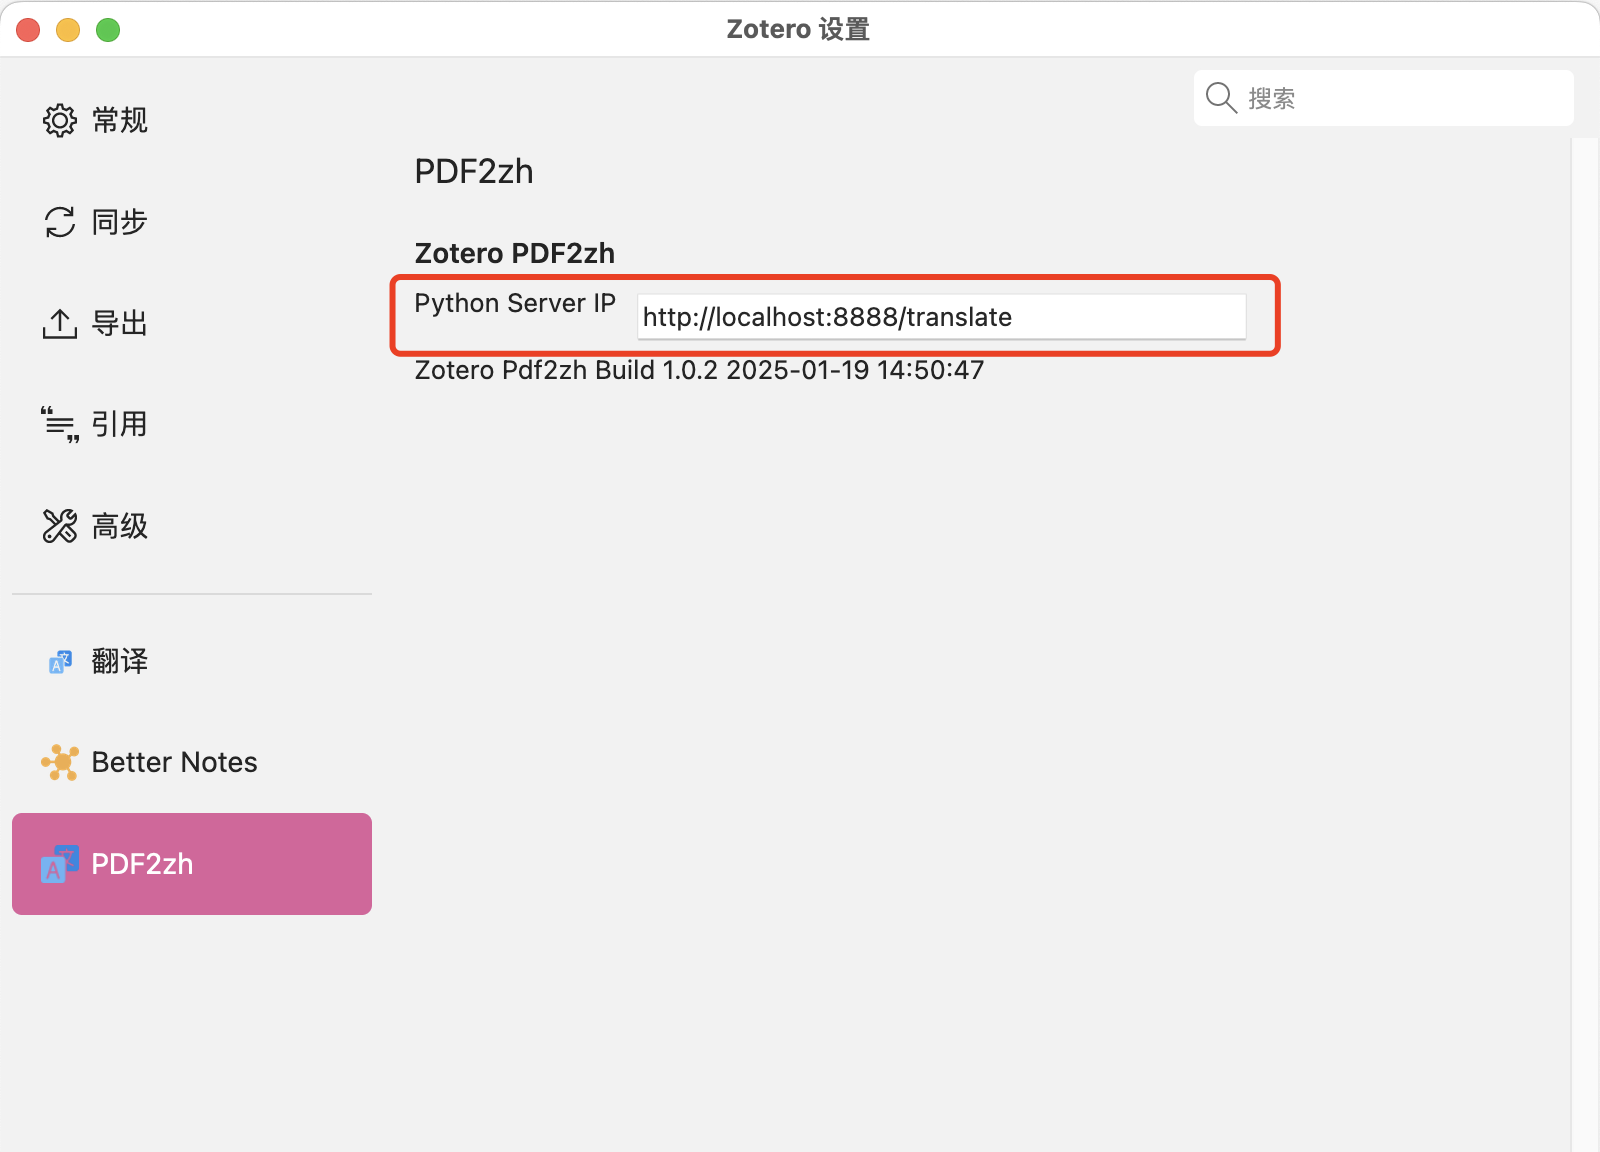
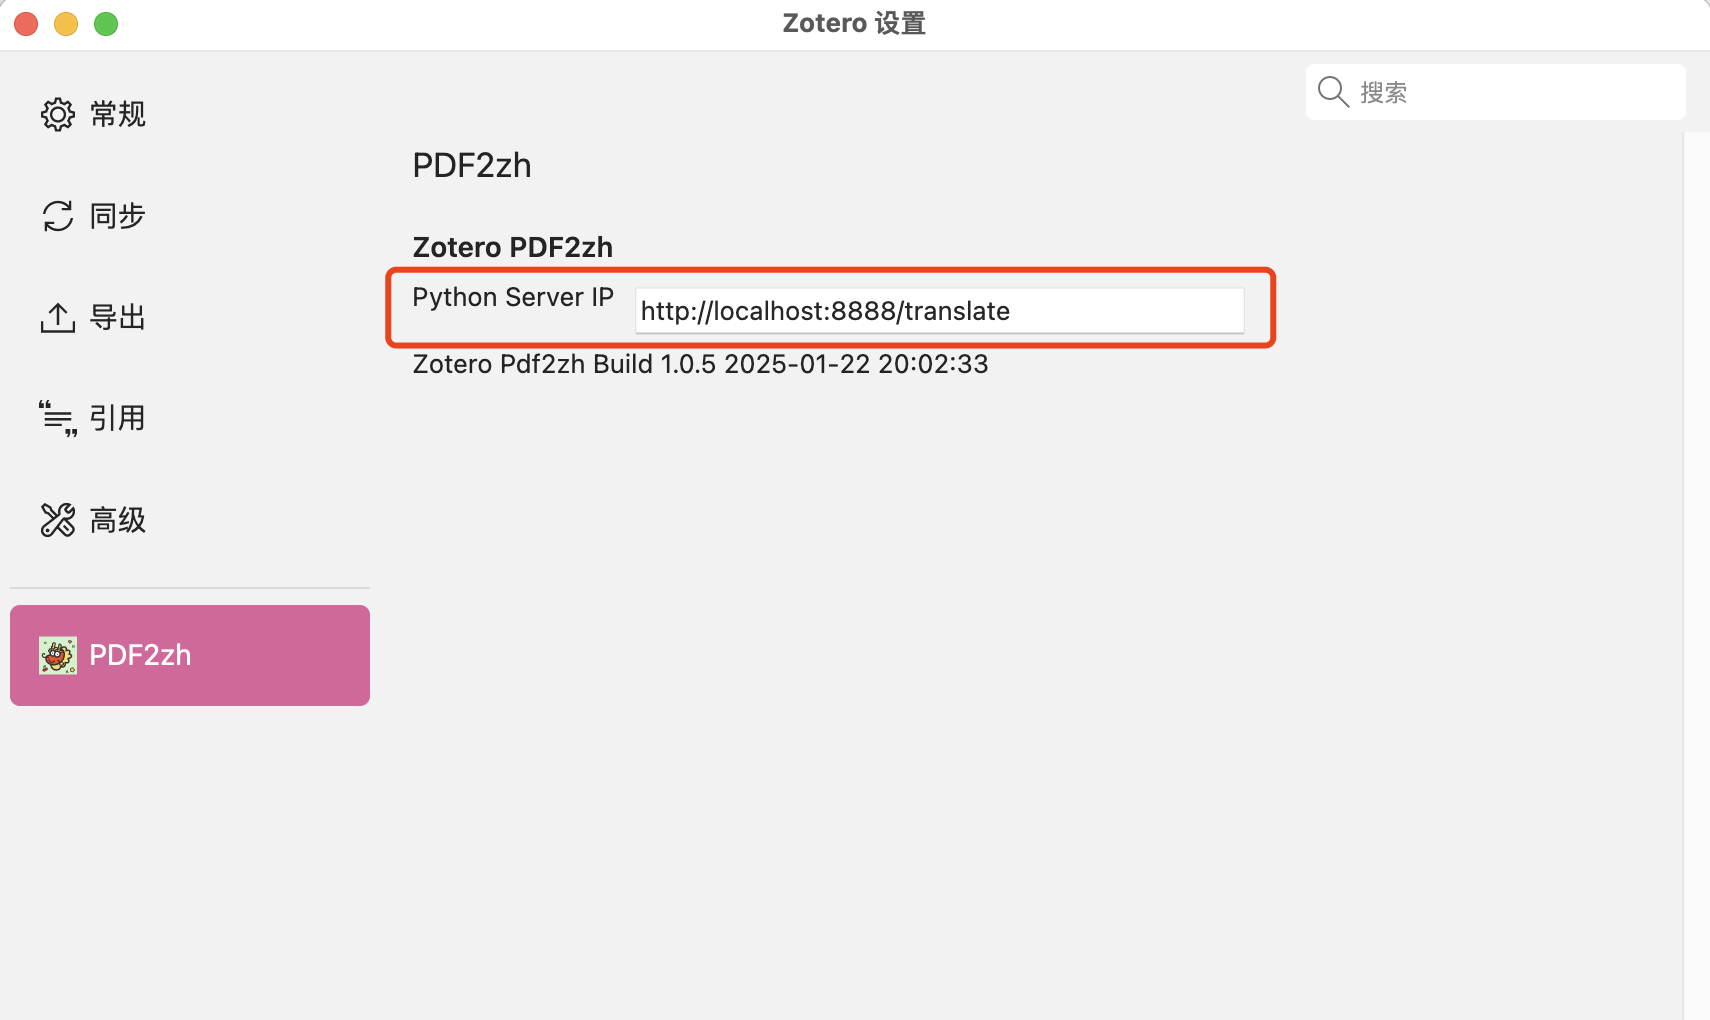
update

diff --git a/src/modules/examples.ts b/src/modules/examples.ts
@@ -78,7 +78,7 @@ export class BasicExampleFactory {
       pluginID: addon.data.config.addonID,
       src: rootURI + "content/preferences.xhtml",
       label: getString("prefs-title"),
-      image: `chrome://${addon.data.config.addonRef}/content/icons/favicon.png`,
+      image: `chrome://${addon.data.config.addonRef}/content/icons/favicon.svg`,
     });
   }
 }
@@ -88,7 +88,7 @@ export class KeyExampleFactory {}
 export class UIExampleFactory {
   @example
   static registerRightClickMenuItem() {
-    const menuIcon = `chrome://${addon.data.config.addonRef}/content/icons/favicon@0.5x.png`;
+    const menuIcon = `chrome://${addon.data.config.addonRef}/content/icons/favicon@0.5x.svg`;
     // 添加自定义菜单项
     ztoolkit.Menu.register("item", {
       tag: "menuitem",
@@ -198,7 +198,8 @@ export class HelperExampleFactory {
               : undefined,
           libraryID: libraryID,
           collections:
-            parentItemID == null || parentItemID == false
+            (parentItemID == null || parentItemID == false) &&
+            collectionID != null
               ? [collectionID]
               : undefined,
         }),

diff --git a/src/utils/ztoolkit.ts b/src/utils/ztoolkit.ts
@@ -27,7 +27,7 @@ function initZToolkit(_ztoolkit: ReturnType<typeof createZToolkit>) {
   _ztoolkit.basicOptions.api.pluginID = config.addonID;
   _ztoolkit.ProgressWindow.setIconURI(
     "default",
-    `chrome://${config.addonRef}/content/icons/favicon.png`,
+    `chrome://${config.addonRef}/content/icons/favicon.svg`,
   );
 }
 

diff --git a/README.md b/README.md
@@ -1,16 +1,18 @@
 # Zotero PDF2zh
 
+![Zotero PDF2zh](./addon/content/icons/favicon@0.5x.svg)
+
 [![Using Zotero Plugin Template](https://img.shields.io/badge/Using-Zotero%20Plugin%20Template-blue?style=flat-square&logo=github)](https://github.com/windingwind/zotero-plugin-template)
 [![License](https://img.shields.io/github/license/guaguastandup/zotero-pdf2zh)](https://github.com/guaguastandup/zotero-pdf2zh/blob/master/LICENSE)
-![Downloads release](https://img.shields.io/github/downloads/guaguastandup/zotero-pdf2zh/total?color=pink)
+![Downloads release](https://img.shields.io/github/downloads/guaguastandup/zotero-pdf2zh/total?color=yellow)
 
 <!-- ![Downloads latest release](https://img.shields.io/github/downloads/guaguastandup/zotero-pdf2zh/latest/total?color=yellow) -->
 
-> 在Zotero中使用[PDF2zh](https://github.com/Byaidu/PDFMathTranslate)
+在Zotero中使用[PDF2zh](https://github.com/Byaidu/PDFMathTranslate)
 
-## 配置方法
+# 配置方法
 
-### 第零步
+## 第零步
 
 在本地安装最新的[PDF2zh](https://github.com/Byaidu/PDFMathTranslate)
 
@@ -22,7 +24,7 @@ pip install --upgrade pdf2zh # 之前已经安装, 更新
 
 本插件当前开发使用的 `pdf2zh`版本: v1.8.9
 
-### 第一步
+## 第一步
 
 根据以下python脚本的注释, 按照个人需求修改配置，然后运行:
 
@@ -68,7 +70,7 @@ if __name__ == '__main__':
     app.run(host='0.0.0.0', port=port_num)
 ```
 
-#### 添加配置文件 & 修改翻译中文字体（可选）
+### 添加配置文件 & 修改翻译中文字体（可选）
 
 推荐使用霞鹜文楷字体, 配置方法:
 
@@ -126,21 +128,23 @@ if __name__ == '__main__':
 
 3. 其他配置的修改同理: 修改config.json即可, 具体参考: [PDF2zh Config File](https://github.com/Byaidu/PDFMathTranslate/blob/main/docs/ADVANCED.md#cofig)
 
-### 第二步
+## 第二步
 
 在Zotero-设置中，输入您的Python Server IP + '/translate'
 
 默认为: `http://localhost:8888/translate`
 
-![image2](./image2.png)
+<img src="./image2.png" alt="image2" style="zoom: 50%;" />
 
-## 使用方法
+# 使用方法
 
-右键选择条目或者附件 - 点击 Translate PDF ![image](./image.png)
+右键选择条目或者附件 - 点击 Translate PDF
+
+ <img src="./image1.png" alt="image" style="zoom:50%;" />
 
 条目中将会添加两个翻译后的文件
 
-![image3](./image3.png)
+<img src="./image3.png" alt="image3" style="zoom:50%;" />
 
 # 致谢
 
